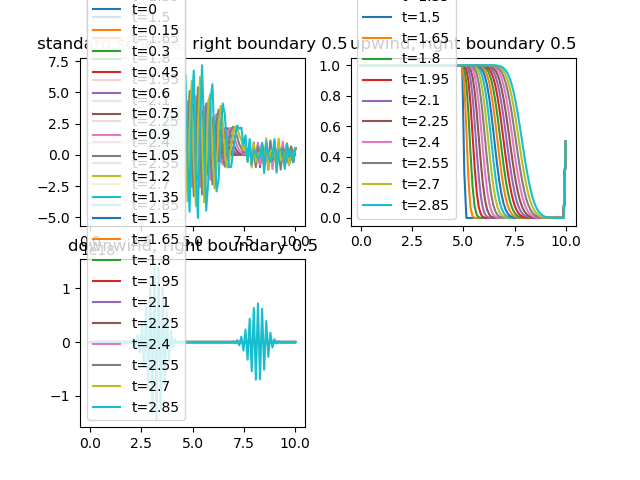
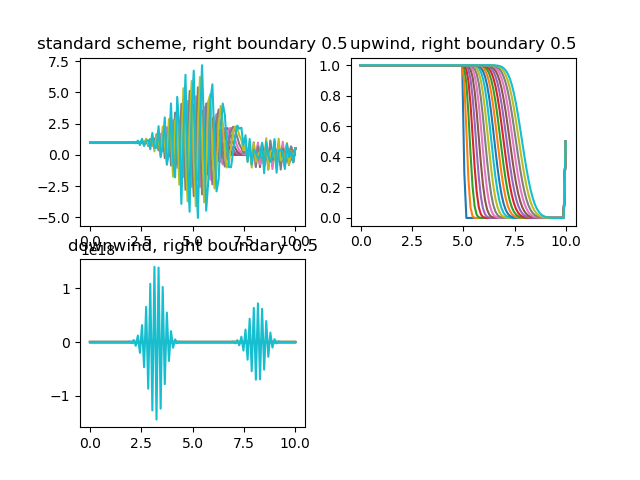
correcting exercise

diff --git a/Exercises_FSM/FSM_Exercise10/FSM_exercise10_2.py b/Exercises_FSM/FSM_Exercise10/FSM_exercise10_2.py
@@ -3,7 +3,15 @@ import matplotlib.pyplot as plt
 
 def advection(q_old, vel, deltax, deltat):
     q_new = q_old.copy()
-    q_new[1:-1] = q_old[1:-1] - vel[:] * (deltat / deltax) * (q_old[1:-1] - q_old[:-2])
+    # q_new[1:-1] = q_old[1:-1] - vel[:] * (deltat / deltax) * (q_old[1:-1] - q_old[:-2])
+    lengthq = len(q_new)
+    for i in range(1, lengthq - 1):
+        # upwind
+        if (vel[i] >= 0):
+            q_new[i] = q_old[i] - (deltat / deltax) * (vel[i - 1] * q_old[i] - vel[i - 2] * q_old[i - 1])
+        # downwind
+        if (vel[i] < 0):
+            q_new[i] = q_old[i] - (deltat / deltax) * (vel[i] * q_old[i + 1] - vel[i - 1] * q_old[i])
     q_new[0] = q_old[0]
     q_new[-1] = q_new[-1]
 
@@ -16,7 +24,7 @@ uini = np.zeros(Nx)
 uini[np.where(xini < L / 2)] = 1
 
 deltax = xini[1] - xini[0]
-a = np.ones(Nx - 2)  # speed in advection equation
+a = np.ones(Nx - 1)  # speed in advection equation
 deltat = 0.03
 
 timesteps = 100
@@ -26,21 +34,23 @@ for n in range(timesteps):
     u = advection(u, a, deltax, deltat)
     if (n % 5 == 0):
         plt.plot(xini, u, label = "t=%g"%(n * deltat))
-plt.legend(loc = "lower left")
+# plt.legend(loc = "lower left")
 plt.savefig("FSM:exercise10_2_a.png")
 
 # b)
 v = -2 * (xini[1:-1] - (L / 2)) / L
+v = np.pad(v, (1, 1), 'constant', constant_values = (v[-2], v[1]))
 uini = np.zeros(Nx)
 uini[np.where((np.abs(xini - (L / 2))) <= (L / 4))] = 1
 
 timesteps = 100
+fig = plt.figure()
 u = uini.copy()
 for n in range(timesteps):
     u = advection(u, v, deltax, deltat)
     if (n % 5 == 0):
         plt.plot(xini, u, label = "t=%g"%(n * deltat))
-plt.legend(loc = "lower left")
+# plt.legend(loc = "lower left")
 plt.savefig("FSM:exercise10_2_b.png")
 
 

diff --git a/Exercises_FSM/FSM_Exercise10/FSM_exercise10_1.py b/Exercises_FSM/FSM_Exercise10/FSM_exercise10_1.py
@@ -45,9 +45,9 @@ def plotsequence(uini, timesteps, method = 'upwind'):
             u = upwind(u, a, deltax, deltat)
         elif (method == 'downwind'):
             u = downwind(u, a, deltax, deltat)
-        if n%5 == 0:
+        if(n % 5) == 0:
             plt.plot(xini, u, label = "t=%g"%(n * deltat))
-    plt.legend(loc = "lower left")
+    # plt.legend(loc = "lower left")
 
 timesteps = 100
 fig = plt.figure()
@@ -102,7 +102,7 @@ plt.savefig('FSM_exercise10_1_e.png')
 uini[0] = 0.5
 uini[-1] = 0.5
 timesteps = 1000
-deltax = 0.003
+deltat = 0.003
 fig = plt.figure()
 plt.subplot(221)
 plotsequence(uini, timesteps, 'scheme')
@@ -118,7 +118,7 @@ plt.savefig('FSM_exercise10_1_f.png')
 
 # 10 times larger timesteps with 10 iterations
 timesteps = 10
-deltax = 0.3
+deltat = 0.3
 fig = plt.figure()
 plt.subplot(221)
 plotsequence(uini, timesteps, 'scheme')
